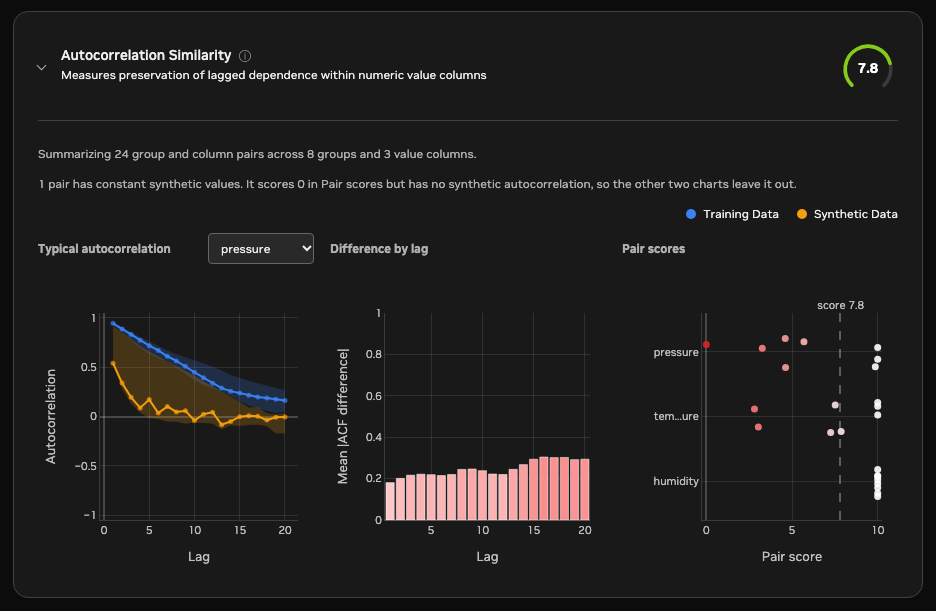
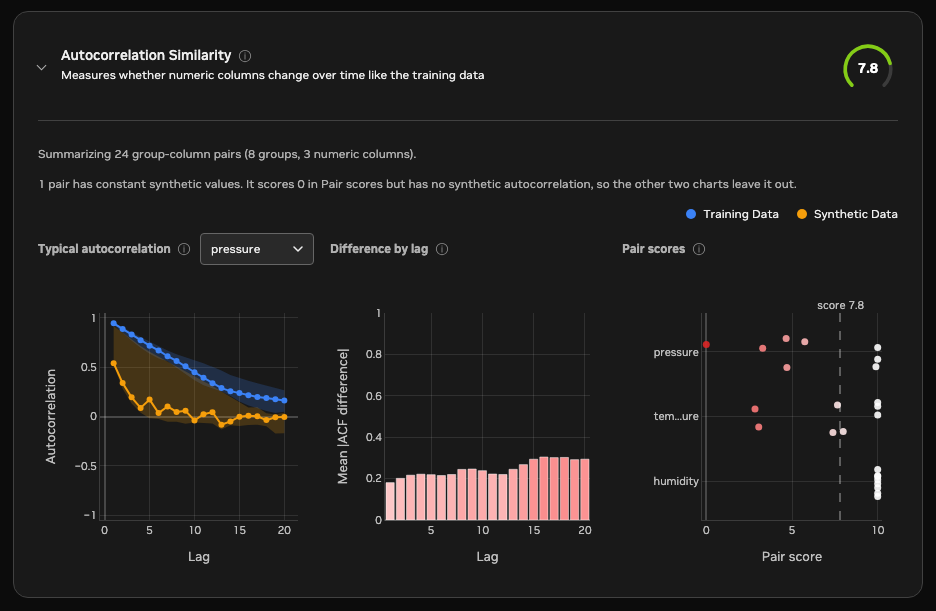
docs: rewrite autocorrelation similarity guide in plain language

diff --git a/docs/user-guide/time-series-metrics/autocorrelation-similarity.md b/docs/user-guide/time-series-metrics/autocorrelation-similarity.md
@@ -3,26 +3,50 @@
 
 # Autocorrelation Similarity
 
-Autocorrelation Similarity measures whether synthetic values depend on their
-recent history in the same way as training values. It can reveal lost
-persistence, incorrect oscillation, overly smooth or repetitive behavior, and
-synthetic sequences whose temporal order has been disrupted.
+Autocorrelation Similarity checks whether synthetic numeric columns change over
+time the way the training columns do. Column-level metrics, such as histograms,
+compare which values appear. This metric compares the order those values appear
+in: how strongly each value resembles the values a few steps earlier.
+
+Two properties matter most:
+
+- Persistence, or memory: how long a value stays close to its recent past. A
+  slowly drifting temperature has strong persistence, and a value that jumps
+  anywhere at every step has none.
+- Rhythm: whether values rise and fall in a repeating cycle, such as a daily
+  pattern, and how long that cycle is.
+
+The figure below shows one training sequence and three synthetic sequences that
+all contain exactly the same values, so their histograms are identical. Only
+the order differs. The right column shows each sequence's autocorrelation: the
+correlation between each value and the value 1, 2, and up to 20 steps later.
+
+![One slowly drifting training series and three synthetic series with identical histograms. A different series that drifts just as slowly scores 10.0. The same values shuffled score 1.7. The same values rearranged into a 25-step cycle score 4.9.](assets/autocorrelation-memory-and-rhythm.png)
+
+- Synthetic A takes a different path but drifts just as slowly. Its
+  autocorrelation follows the training curve, so it scores 10.0.
+- Synthetic B is the training values shuffled. Each value is unrelated to the
+  one before it, so its autocorrelation is flat at 0 and it scores 1.7.
+- Synthetic C repeats every 25 steps. Its autocorrelation dips negative half a
+  cycle later and rises again, which the training data never does. It scores
+  4.9, because the first few lags still match.
 
 ## Reading the score
 
-A higher score means the training and synthetic autocorrelation profiles are
-more alike. Differences small enough to be explained by chance do not lower
-the score, so a synthetic series generated by the same process as the training
-series scores near 10, and a synthetic series with no temporal structure left
-scores near 0.
+A higher score means the synthetic data's autocorrelation is closer to the
+training data's. Differences small enough to be explained by chance do not
+lower the score, so synthetic data generated by the same process as the
+training data scores near 10, and synthetic data with no temporal structure
+left scores near 0.
 
 The figures below show how the metric scores one group and column pair in a
 range of situations. Each row compares one training series (blue) with one
 synthetic series (orange):
 
 - The left chart shows the values.
-- The middle chart shows their autocorrelation at lags 1 to 20. The shaded
-  band is the sampling noise the score allows for.
+- The middle chart shows their autocorrelation at lags 1 to 20. A lag is the
+  number of steps between the two values being compared. The shaded band is
+  the sampling noise the score allows for.
 - The right column shows the score for the plotted pair, and the typical
   score across 30 random repeats at 50, 200, and 1,000 points per sequence.
   A single pair can land a point or more away from its typical score.
@@ -40,31 +64,33 @@ With 200 or more points per sequence, scores fall into rough tiers:
   for example weaker persistence, a cycle buried in noise, a regime change, or
   too much smoothness. Occasional outlier spikes lower the score less, to
   about 8.
-- About 0 to 4: the synthetic data has lost its lag structure, as when values
-  are shuffled, a trend is missing, or a cycle has the wrong period.
+- About 0 to 4: the synthetic data has lost its structure over time, as when
+  values are shuffled, a trend is missing, or a cycle has the wrong length.
 - 0: the synthetic values are constant.
 
 Short sequences carry less evidence, so their scores bunch toward the middle.
 At 50 points per sequence, shuffled data still scores about 6. The metric also
-cannot see differences beyond `max_lag`, and it ignores level, scale, and
-phase by design, as the additional scenarios show.
+cannot see patterns longer than `max_lag` steps, and by design it ignores
+differences in level, scale, and phase, as the additional scenarios show.
 
 These tiers are a guide rather than pass or fail thresholds. Compare scores
 only when the selected columns, groups, and `max_lag` are the same. Whether a
 difference matters depends on the downstream use case. For example, preserving
-short-term dependence may be critical for sensor simulation but unimportant
+short-term persistence may be critical for sensor simulation but unimportant
 for a workload that uses only long-term totals.
 
 ## Calculation
 
-For every usable group and numeric value column, the metric computes the Pearson
-correlation between values at positions `t` and `t + lag`. Each lag uses only
-endpoint pairs that are finite in that sequence and requires at least three
-pairs. It then compares the training profile \(r^{\text{train}}_k\) and the
-synthetic profile \(r^{\text{synth}}_k\) lag by lag, in three steps:
+For every usable group and numeric column, the metric computes the Pearson
+correlation between values at positions `t` and `t + lag`, for each lag from 1
+to `max_lag`. This list of correlations is the column's autocorrelation
+profile. Each lag uses only pairs of values that are both present in that
+sequence and requires at least three pairs. The metric then compares the
+training profile \(r^{\text{train}}_k\) and the synthetic profile
+\(r^{\text{synth}}_k\) lag by lag, in three steps:
 
 1. Estimate the sampling noise at each lag. Bartlett's formula gives the
-   standard error of an autocorrelation measured from \(n\) observations,
+   standard error of an autocorrelation measured from \(n\) pairs,
    \(\sqrt{(1 + 2 \sum_{j<k} r_j^2) / n}\). The noise allowance \(\sigma_k\)
    combines the training and synthetic standard errors.
 2. Keep only the gap beyond that noise,
@@ -83,14 +109,13 @@ synthetic profile \(r^{\text{synth}}_k\) lag by lag, in three steps:
 The result is clipped to the range 0 to 1. The final 0–10 score is ten times
 the mean profile similarity across group and column pairs. Therefore, 10 means
 the profiles agree within sampling noise, and 0 means none of the training
-data's lag structure is reproduced.
+data's structure over time is reproduced.
 
-Non-finite observations remain as gaps in their original temporal positions, so
-an invalid observation cannot collapse the time axis. A comparison is skipped
-when the training series is constant because its autocorrelation is undefined.
-If the training series varies but the synthetic series is constant, that
-comparison receives zero similarity to represent complete loss of temporal
-variation.
+Missing and non-finite values stay as gaps in their original positions, so
+removing them cannot pull distant values next to each other. A comparison is
+skipped when the training series is constant, because its autocorrelation is
+undefined. If the training series varies but the synthetic series is constant,
+that comparison scores 0 to represent complete loss of variation over time.
 
 ## Configuration
 
@@ -114,54 +139,61 @@ evaluation:
       max_groups: 128
 ```
 
-`value_columns: null` evaluates all shared columns inferred as numeric. Set an
-explicit list to evaluate only selected numeric channels. Timestamp ordering
-uses `time_series.timestamp_column`, and sequence grouping uses
-`data.group_training_examples_by`.
+`value_columns: null` evaluates every column that both datasets share and that
+is inferred as numeric. Set an explicit list to evaluate only selected numeric
+columns. Values are ordered by `time_series.timestamp_column` and split into
+sequences by `data.group_training_examples_by`.
 
 If more than `max_groups` groups are shared, the metric evaluates a reproducible
-seeded sample instead of favoring labels that sort first. The result reports the
-total, evaluated, and omitted shared-group counts. Changing `value_columns`,
-`max_lag`, or the grouping configuration changes what the aggregate score
-measures.
+random sample of groups instead of the ones whose labels sort first. The result
+reports the total, evaluated, and omitted shared-group counts. Changing
+`value_columns`, `max_lag`, or the grouping configuration changes what the
+aggregate score measures.
 
 ## Reading the report charts
 
-The metric card shows three charts built from every evaluated group and column pair.
+The metric card shows three charts built from every evaluated group and column
+pair. Select the info icon next to a chart title for a short reminder of how
+to read it.
 
 ![The Autocorrelation Similarity card in the HTML evaluation report, showing a score of 7.8 with the Typical autocorrelation, Difference by lag, and Pair scores charts.](assets/autocorrelation-report.png)
 
 The example above comes from a dataset of eight sensors, grouped by sensor ID,
-with three value columns: `temperature`, `pressure`, and `humidity`. The
+with three numeric columns: `temperature`, `pressure`, and `humidity`. The
 synthetic data reproduces sensors 0 to 2 well, loses persistence in
 `temperature` and `pressure` for sensors 3 to 7, and generates a constant
-`pressure` series for sensor 7. `humidity` is preserved for every sensor.
+`pressure` series for sensor 7. `humidity` is preserved for every sensor. You
+can confirm each of these details in the report itself: use the column
+selector on the first chart, and hover over any bar or point to see its exact
+values.
 
 - Typical autocorrelation: plots the median training and synthetic
-  autocorrelation at each lag, with shaded bands covering the middle 50% of
-  groups. The chart opens on the column with the lowest mean pair score, here
-  `pressure`. Training autocorrelation decays slowly from about 0.9, while the
-  synthetic median drops below 0.2 by lag 5, so most synthetic sensors lost
-  the persistence of the training data. Use the column selector to switch
-  value columns.
-- Difference by lag: plots the mean absolute difference between paired
-  training and synthetic profiles at each lag, across all value columns. Here
-  the difference grows from about 0.18 at lag 1 to about 0.3 at lag 15 and
-  beyond, so the loss is largest for long-range persistence. A peak at one lag
-  instead points to a missing or shifted cycle. The y-axis always spans at
-  least 0 to 1, so short, pale bars mean small differences, and bars turn
-  red as the difference approaches 0.5.
-- Pair scores: plots every group and column pair score on the 0–10 scale,
-  with the overall score marked by the dashed line. Each point is one sensor,
-  shaded from white at 10 to red at 0.
-  `humidity` scores 10 for all sensors. `pressure` and `temperature` score
-  about 10 for the well-reproduced sensors 0 to 2 and between about 4.5 and 8
-  for sensors 3 to 5. Sensors 6 and 7 have no synthetic temporal structure
-  and score about 3, except for the constant sensor 7 `pressure` series. The gap between the overall score and 10 is therefore
-  driven by specific sensors rather than the whole dataset. The
-  chart plots the 8 lowest-scoring columns. Column names longer than 10
-  characters are shortened to their first and last three characters, as with
-  `tem...ure`. Hover over a point to see its full column name and group.
+  autocorrelation at each lag for one numeric column. The shaded bands cover
+  the middle 50% of groups. The chart opens on the column with the lowest mean
+  pair score, here `pressure`. Use the column selector next to the title to
+  switch columns. For `pressure`, training autocorrelation decays slowly from
+  about 0.9, while the synthetic median drops below 0.2 by lag 5, so most
+  synthetic sensors lost the persistence of the training data.
+- Difference by lag: plots the mean absolute difference between the training
+  and synthetic profiles of each pair at each lag, across all numeric columns.
+  Hover over a bar to see its exact value. Here the difference grows from
+  about 0.18 at lag 1 to about 0.3 at lag 15 and beyond, so the loss is largest
+  for long-range persistence. A peak at one lag instead points to a missing or
+  shifted cycle. The y-axis always spans at least 0 to 1, so short, pale bars
+  mean small differences, and bars turn red as the difference approaches 0.5.
+- Pair scores: plots the score of every group and column pair on the 0–10
+  scale, with the overall score marked by the dashed line. Each point is one
+  sensor, shaded from white at 10 to red at 0. Points within a row are spread
+  out vertically so that equal scores stay visible. Hover over a point to see
+  its full column name, group, and score. `humidity` scores 10 for all
+  sensors. `pressure` and `temperature` score about 10 for the
+  well-reproduced sensors 0 to 2 and between about 4.5 and 8 for sensors 3 to
+  5. Sensors 6 and 7 have no synthetic structure over time and score about 3,
+  except for the constant sensor 7 `pressure` series. The gap between the
+  overall score and 10 is therefore driven by specific sensors rather than
+  the whole dataset. The chart shows the 8 lowest-scoring columns. Column
+  names longer than 10 characters are shortened to their first and last three
+  characters, as with `tem...ure`.
 
 A pair whose synthetic values are constant scores 0 but has no synthetic
 autocorrelation, so only Pair scores shows it. In the example, the `pressure`
@@ -170,12 +202,13 @@ Typical autocorrelation median for `pressure` uses the remaining seven sensors.
 
 ## Limitations
 
-Autocorrelation summarizes average linear dependence within one value channel.
-Different sequences can have similar autocorrelation profiles, so a high score
-does not mean that individual events, amplitudes, or phases match. A single
-profile can also hide local regime changes, and irregular sampling intervals
-can make lag comparisons misleading. Binary and categorical channels require
-different lag-association measures and are not selected automatically. The
-metric does not establish causality or show whether the synthetic data
-memorizes training sequences. Interpret the score at a lag range and sequence
-granularity that match the behavior you need to preserve.
+Autocorrelation summarizes the average linear relationship between a numeric
+column and its own past values. Different sequences can have similar
+autocorrelation profiles, so a high score does not mean that individual events,
+amplitudes, or phases match. A single profile can also hide a change in
+behavior partway through a sequence, and irregular sampling intervals can make
+lag comparisons misleading. Binary and categorical columns need different
+measures and are not selected automatically. The metric does not establish
+causality or show whether the synthetic data memorizes training sequences.
+Interpret the score at a lag range and sequence length that match the
+behavior you need to preserve.
